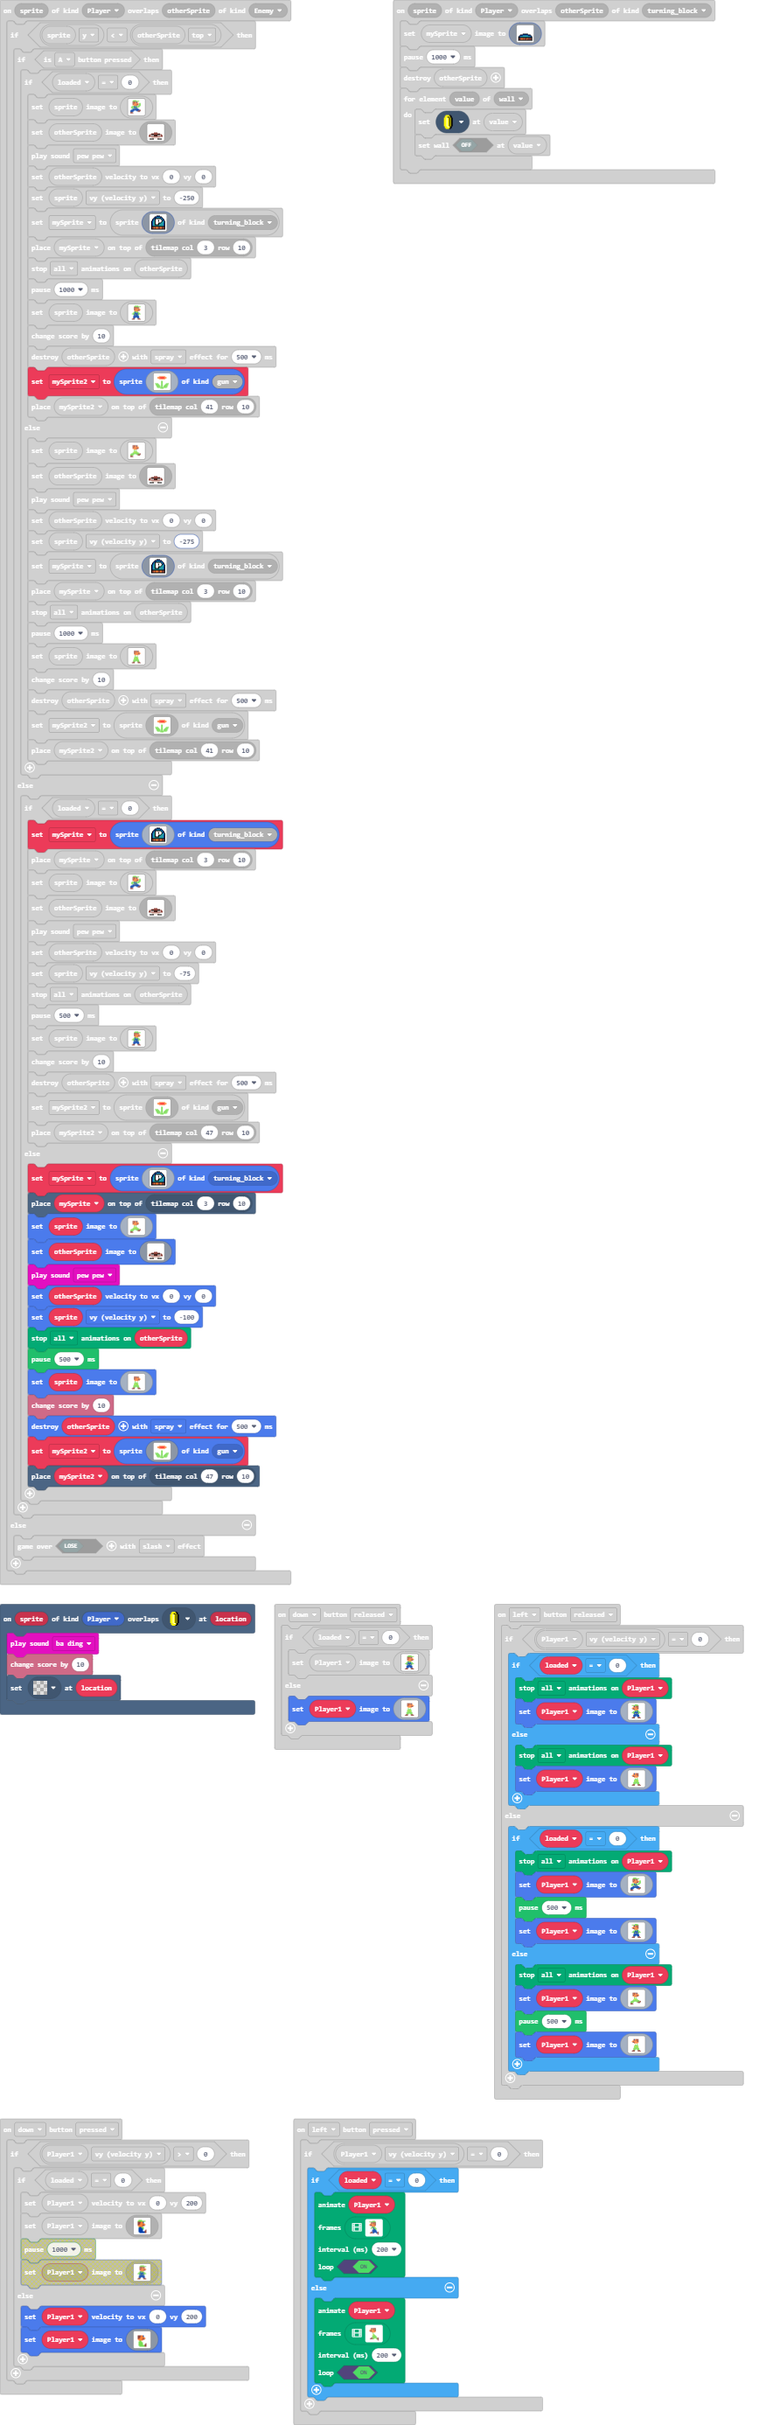
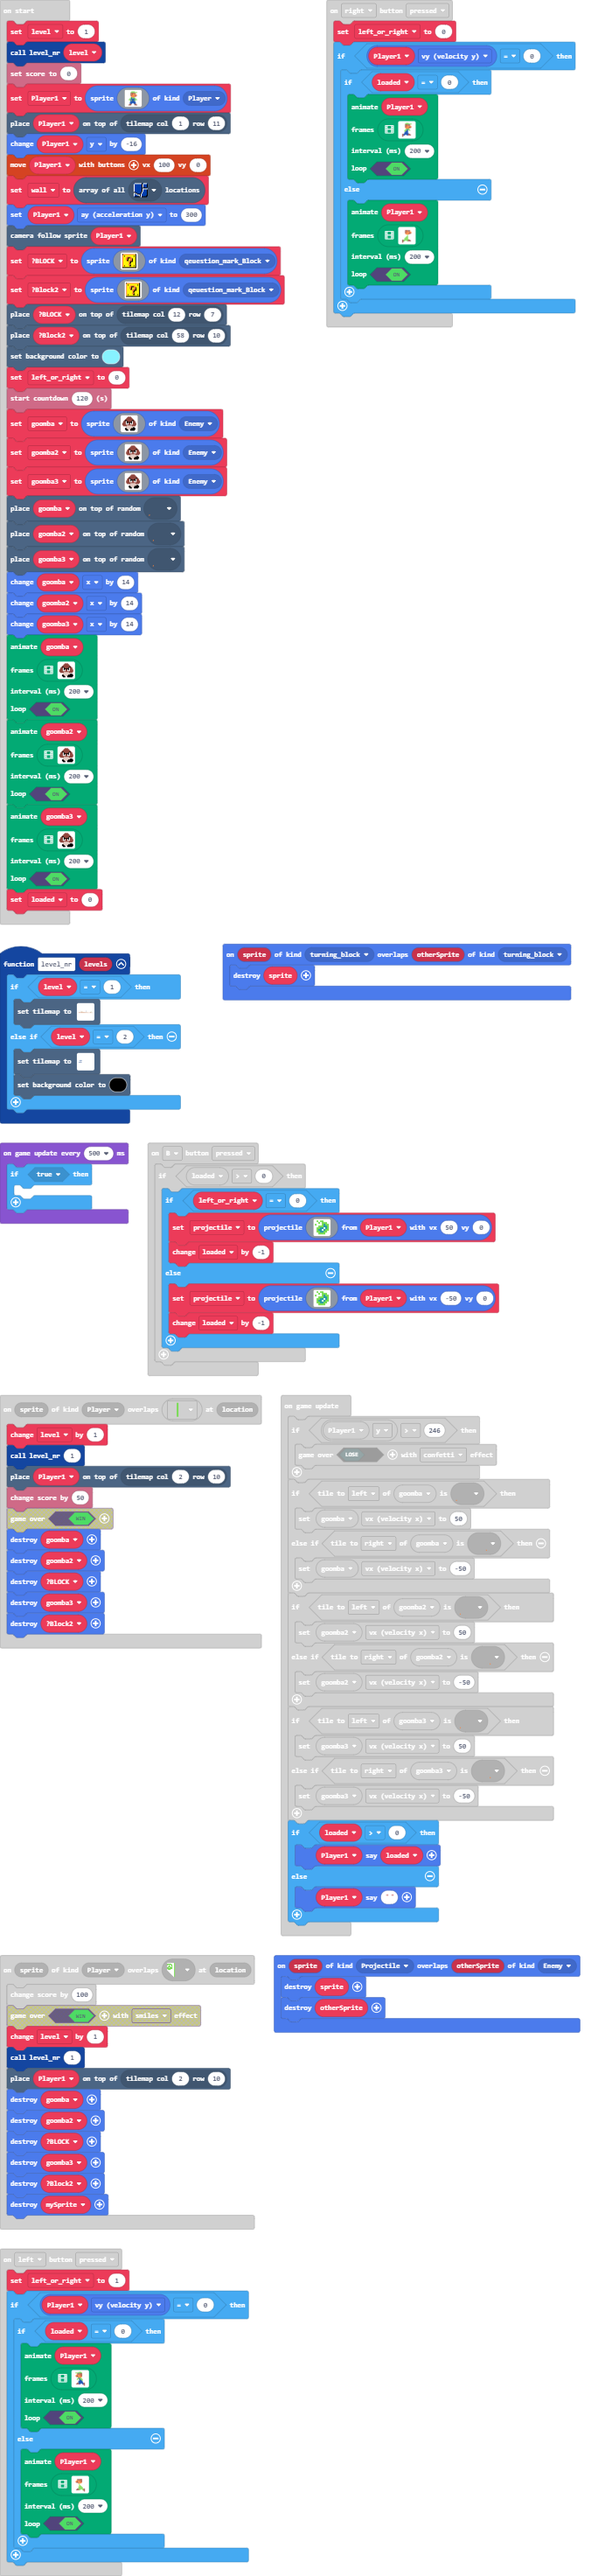
Update main.blocks, main.ts, tilemap.g.jres, tilemap.g.ts

diff --git a/main.ts b/main.ts
@@ -5,22 +5,39 @@ namespace SpriteKind {
 }
 controller.B.onEvent(ControllerButtonEvent.Pressed, function () {
     if (loaded > 0) {
-        projectile = sprites.createProjectileFromSprite(img`
-            . 7 . 7 7 . . . 
-            . . 7 . 7 7 7 . 
-            7 . . . 7 6 7 7 
-            . . 7 7 7 6 6 7 
-            . 7 7 6 6 1 6 7 
-            . 7 6 6 1 6 7 7 
-            . 7 7 6 6 7 7 . 
-            . . 7 7 7 7 . . 
-            `, Player1, 50, 0)
-        loaded += -1
+        if (left_or_right == 0) {
+            projectile = sprites.createProjectileFromSprite(img`
+                . 7 . 7 7 . . . 
+                . . 7 . 7 7 7 . 
+                7 . . . 7 6 7 7 
+                . . 7 7 7 6 6 7 
+                . 7 7 6 6 1 6 7 
+                . 7 6 6 1 6 7 7 
+                . 7 7 6 6 7 7 . 
+                . . 7 7 7 7 . . 
+                `, Player1, 50, 0)
+            loaded += -1
+        } else {
+            projectile = sprites.createProjectileFromSprite(img`
+                . 7 . 7 7 . . . 
+                . . 7 . 7 7 7 . 
+                7 . . . 7 6 7 7 
+                . . 7 7 7 6 6 7 
+                . 7 7 6 6 1 6 7 
+                . 7 6 6 1 6 7 7 
+                . 7 7 6 6 7 7 . 
+                . . 7 7 7 7 . . 
+                `, Player1, -50, 0)
+            loaded += -1
+        }
     }
 })
 sprites.onOverlap(SpriteKind.Player, SpriteKind.gun, function (sprite, otherSprite) {
     loaded = 5
     otherSprite.destroy()
+})
+sprites.onOverlap(SpriteKind.turning_block, SpriteKind.turning_block, function (sprite, otherSprite) {
+    sprite.destroy()
 })
 controller.A.onEvent(ControllerButtonEvent.Pressed, function () {
     if (Player1.vy == 0) {
@@ -167,6 +184,7 @@ controller.down.onEvent(ControllerButtonEvent.Released, function () {
     }
 })
 controller.left.onEvent(ControllerButtonEvent.Pressed, function () {
+    left_or_right = 1
     if (Player1.vy == 0) {
         if (loaded == 0) {
             animation.runImageAnimation(
@@ -601,6 +619,7 @@ scene.onOverlapTile(SpriteKind.Player, myTiles.tile9, function (sprite, location
     tiles.setTileAt(location, myTiles.transparency16)
 })
 controller.right.onEvent(ControllerButtonEvent.Pressed, function () {
+    left_or_right = 0
     if (Player1.vy == 0) {
         if (loaded == 0) {
             animation.runImageAnimation(
@@ -740,8 +759,15 @@ controller.right.onEvent(ControllerButtonEvent.Pressed, function () {
     }
 })
 scene.onOverlapTile(SpriteKind.Player, myTiles.tile6, function (sprite, location) {
+    level += 1
+    level_nr(1)
+    tiles.placeOnTile(Player1, tiles.getTileLocation(2, 10))
     info.changeScoreBy(50)
-    game.over(true)
+    goomba.destroy()
+    goomba2.destroy()
+    BLOCK.destroy()
+    goomba3.destroy()
+    Block2.destroy()
 })
 sprites.onOverlap(SpriteKind.Player, SpriteKind.turning_block, function (sprite, otherSprite) {
     mySprite.setImage(img`
@@ -814,9 +840,63 @@ controller.down.onEvent(ControllerButtonEvent.Pressed, function () {
         }
     }
 })
+function level_nr (levels: number) {
+    if (level == 1) {
[1 lines of base64/hex data omitted]
+            ..........................................2................................2....
+            ..........................................2................................2....
+            ..........................................2................................2....
+            ..........................................2................................2....
+            ..........2...............................2................................2....
+            ..........................................2................................2....
+            ..........................................2................................2....
+            ..........2222............................2................................2....
+            ..................22......................2.....................................
+            .................2..2.....................2..........................22.........
+            ................2....2....................2..............222........2.2.........
+            222222..22222222......2222222............22...22...................2..2.........
+            .....2..2....................222222222222.2...2.2.................2...2.........
+            .....2..2.................................2...2..2...............2....2...2.....
+            .....2..2.................................2...2...222222222222.22......2222.....
+            .....2..2.................................2...2..............2.2................
+            `, [myTiles.transparency16,myTiles.tile1,myTiles.tile6,myTiles.tile7,myTiles.tile8,myTiles.tile10,myTiles.tile11,myTiles.tile13,myTiles.tile14,myTiles.tile15,myTiles.tile16,myTiles.tile17,myTiles.tile18,myTiles.tile19,myTiles.tile3,myTiles.tile2,myTiles.tile4,myTiles.tile5,myTiles.tile9], TileScale.Sixteen))
+    } else if (level == 2) {
+        tiles.setTilemap(tiles.createTilemap(hex`500010000000000005010101010101010101010101010400000000000000000000000000000000000000000000000000000000000000000000000000000000000000000000000000000000000000000000000000000000000501010101010101010101010101040000000000000000000000000000000000000000000000000000000000000000000000000000000000000000000000000000000000000000000000000000000000050101010101010101010101010104000000000000000000000000000000000000000000000000000000000000000000000000000000000000000000000000000000000000000000000000000000000005010101010101010101010101010400000000000000000000000000000000000000000000000000000000000000000000000000000000000000000000000000000000000000000000000000000000000501010101010101010101010101040000000000000000000000000000000000000000000000000000000000000000000000000000000000000000000000000000000000000000000000000000000000070808080808080808080808080808000000000000000000000000000000000000000000000000000000000000000000000000000000000000000000000000000000000000000000000000000000000000000000000000000000000000000000000000000000000000000000000000000000000000000000000000000000000000000000000000000000000000000000000000000000000000000000000000000000000000000000000000000000000000000000000000000000000000000000000000000000000000000000000000000000000000000000000000000000000000000000000000000000000000000000000000000000000600000000000000000000000000000000000000000000000000000000000000000000000000000000000000000000000000000000000000000000000000000000000000000000000000000000000600060006000000000000000000000000000000000000000000000000000000000000000000000000000000000000000000000000000000000000000000000000000000000000000000000000000609060906090609060000000000000000000000000000000000000000000000000000000000000000000000000000000000000000000000000000000000000000000000000000000002020202020202020202020202020202020300000000000000000000000000000000000000000000000000000000000000000000000000000000000000000000000000000000000000000000000000000101010101010101010101010101010101040000000000000000000000000000000000000000000000000000000000000000000000000000000000000000000000000000000000000000000000000000010101010101010101010101010101010104000000000000000000000000000000000000000000000000000000000000000000000000000000000000000000000000000000000000000000000000000001010101010101010101010101010101010400000000000000000000000000000000000000000000000000000000000000000000000000000000000000000000000000000000000000000000000000000101010101010101010101010101010101040000000000000000000000000000000000000000000000000000000000000000000000000000000000000000000000000000000000000000000000000000`, img`
+            ....2.............2.............................................................
+            ....2.............2.............................................................
+            ....2.............2.............................................................
+            ....2.............2.............................................................
+            ....2.............2.............................................................
+            ....222222222222222.............................................................
+            ................................................................................
+            ................................................................................
+            ...........2....................................................................
+            .........2.2.2..................................................................
+            .......2.2.2.2.2................................................................
+            222222222222222222..............................................................
+            .................2..............................................................
+            .................2..............................................................
+            .................2..............................................................
+            .................2..............................................................
+            `, [myTiles.transparency16,myTiles.tile5,myTiles.tile12,myTiles.tile20,myTiles.tile21,myTiles.tile22,myTiles.tile23,myTiles.tile24,myTiles.tile25,myTiles.tile9], TileScale.Sixteen))
+        scene.setBackgroundColor(15)
+    }
+}
 scene.onOverlapTile(SpriteKind.Player, myTiles.tile1, function (sprite, location) {
     info.changeScoreBy(100)
-    game.over(true, effects.smiles)
+    level += 1
+    level_nr(1)
+    tiles.placeOnTile(Player1, tiles.getTileLocation(2, 10))
+    goomba.destroy()
+    goomba2.destroy()
+    BLOCK.destroy()
+    goomba3.destroy()
+    Block2.destroy()
+    mySprite.destroy()
+})
+sprites.onOverlap(SpriteKind.Projectile, SpriteKind.Enemy, function (sprite, otherSprite) {
+    sprite.destroy()
+    otherSprite.destroy()
 })
 sprites.onOverlap(SpriteKind.Player, SpriteKind.Enemy, function (sprite, otherSprite) {
     if (sprite.y < otherSprite.top) {
@@ -1265,28 +1345,18 @@ let mySprite2: Sprite = null
 let mySprite: Sprite = null
 let projectile: Sprite = null
 let loaded = 0
+let goomba3: Sprite = null
+let goomba2: Sprite = null
+let goomba: Sprite = null
+let left_or_right = 0
+let Block2: Sprite = null
 let BLOCK: Sprite = null
 let wall: tiles.Location[] = []
 let Player1: Sprite = null
+let level = 0
+level = 1
+level_nr(level)
 info.setScore(0)
[1 lines of base64/hex data omitted]
-    ..........................................2................................2....
-    ..........................................2................................2....
-    ..........................................2................................2....
-    ..........................................2................................2....
-    ..........2...............................2................................2....
-    ..........................................2................................2....
-    ..........................................2................................2....
-    ..........2222............................2................................2....
-    ..................22......................2.....................................
-    .................2..2.....................2..........................22.........
-    ................2....2....................2..............222........2.2.........
-    222222..22222222......2222222............22...22...................2..2.........
-    .....2..2....................222222222222.2...2.2.................2...2.........
-    .....2..2.................................2...2..2...............2....2...2.....
-    .....2..2.................................2...2...222222222222.22......2222.....
-    .....2..2.................................2...2..............2.2................
-    `, [myTiles.transparency16,myTiles.tile1,myTiles.tile6,myTiles.tile7,myTiles.tile8,myTiles.tile10,myTiles.tile11,myTiles.tile13,myTiles.tile14,myTiles.tile15,myTiles.tile16,myTiles.tile17,myTiles.tile18,myTiles.tile19,myTiles.tile3,myTiles.tile2,myTiles.tile4,myTiles.tile5], TileScale.Sixteen))
 Player1 = sprites.create(img`
     ......777771....
     .....777777777..
@@ -1332,7 +1402,7 @@ BLOCK = sprites.create(img`
     4 5 5 5 5 5 5 5 5 5 5 5 5 5 5 f 
     f f f f f f f f f f f f f f f f 
     `, SpriteKind.qeuestion_mark_Block)
-let Block2 = sprites.create(img`
+Block2 = sprites.create(img`
     f 4 4 4 4 4 4 4 4 4 4 4 4 4 4 f 
     4 5 5 5 5 5 5 5 5 5 5 5 5 5 5 f 
     4 5 f 5 5 5 5 5 5 5 5 5 5 f 5 f 
@@ -1353,8 +1423,9 @@ let Block2 = sprites.create(img`
 tiles.placeOnTile(BLOCK, tiles.getTileLocation(12, 7))
 tiles.placeOnTile(Block2, tiles.getTileLocation(58, 10))
 scene.setBackgroundColor(9)
+left_or_right = 0
 info.startCountdown(120)
-let goomba = sprites.create(img`
+goomba = sprites.create(img`
     . . . . . . e e e e . . . . . . 
     . . . . . e e e e e e . . . . . 
     . . . . e e e e e e e e . . . . 
@@ -1372,7 +1443,7 @@ let goomba = sprites.create(img`
     . . . f f f d d d f f f f f f . 
     . . . . f f f . . f f f f f . . 
     `, SpriteKind.Enemy)
-let goomba2 = sprites.create(img`
+goomba2 = sprites.create(img`
     . . . . . . e e e e . . . . . . 
     . . . . . e e e e e e . . . . . 
     . . . . e e e e e e e e . . . . 
@@ -1390,7 +1461,7 @@ let goomba2 = sprites.create(img`
     . . . f f f d d d f f f f f f . 
     . . . . f f f . . f f f f f . . 
     `, SpriteKind.Enemy)
-let goomba3 = sprites.create(img`
+goomba3 = sprites.create(img`
     . . . . . . e e e e . . . . . . 
     . . . . . e e e e e e . . . . . 
     . . . . e e e e e e e e . . . . 
@@ -1553,5 +1624,15 @@ game.onUpdate(function () {
         goomba3.vx = 50
     } else if (goomba3.tileKindAt(TileDirection.Right, myTiles.tile11)) {
         goomba3.vx = -50
+    }
+    if (loaded > 0) {
+        Player1.say(loaded)
+    } else {
+        Player1.say("")
+    }
+})
+game.onUpdateInterval(500, function () {
+    if (true) {
+    	
     }
 })

diff --git a/tilemap.g.ts b/tilemap.g.ts
@@ -38,6 +38,20 @@ namespace myTiles {
     export const tile5 = image.ofBuffer(hex``);
     //% fixedInstance jres blockIdentity=images._tile
     export const tile9 = image.ofBuffer(hex``);
+    //% fixedInstance jres blockIdentity=images._tile
+    export const tile12 = image.ofBuffer(hex``);
+    //% fixedInstance jres blockIdentity=images._tile
+    export const tile20 = image.ofBuffer(hex``);
+    //% fixedInstance jres blockIdentity=images._tile
+    export const tile21 = image.ofBuffer(hex``);
+    //% fixedInstance jres blockIdentity=images._tile
+    export const tile22 = image.ofBuffer(hex``);
+    //% fixedInstance jres blockIdentity=images._tile
+    export const tile23 = image.ofBuffer(hex``);
+    //% fixedInstance jres blockIdentity=images._tile
+    export const tile24 = image.ofBuffer(hex``);
+    //% fixedInstance jres blockIdentity=images._tile
+    export const tile25 = image.ofBuffer(hex``);
 
 }
 // Auto-generated code. Do not edit.
